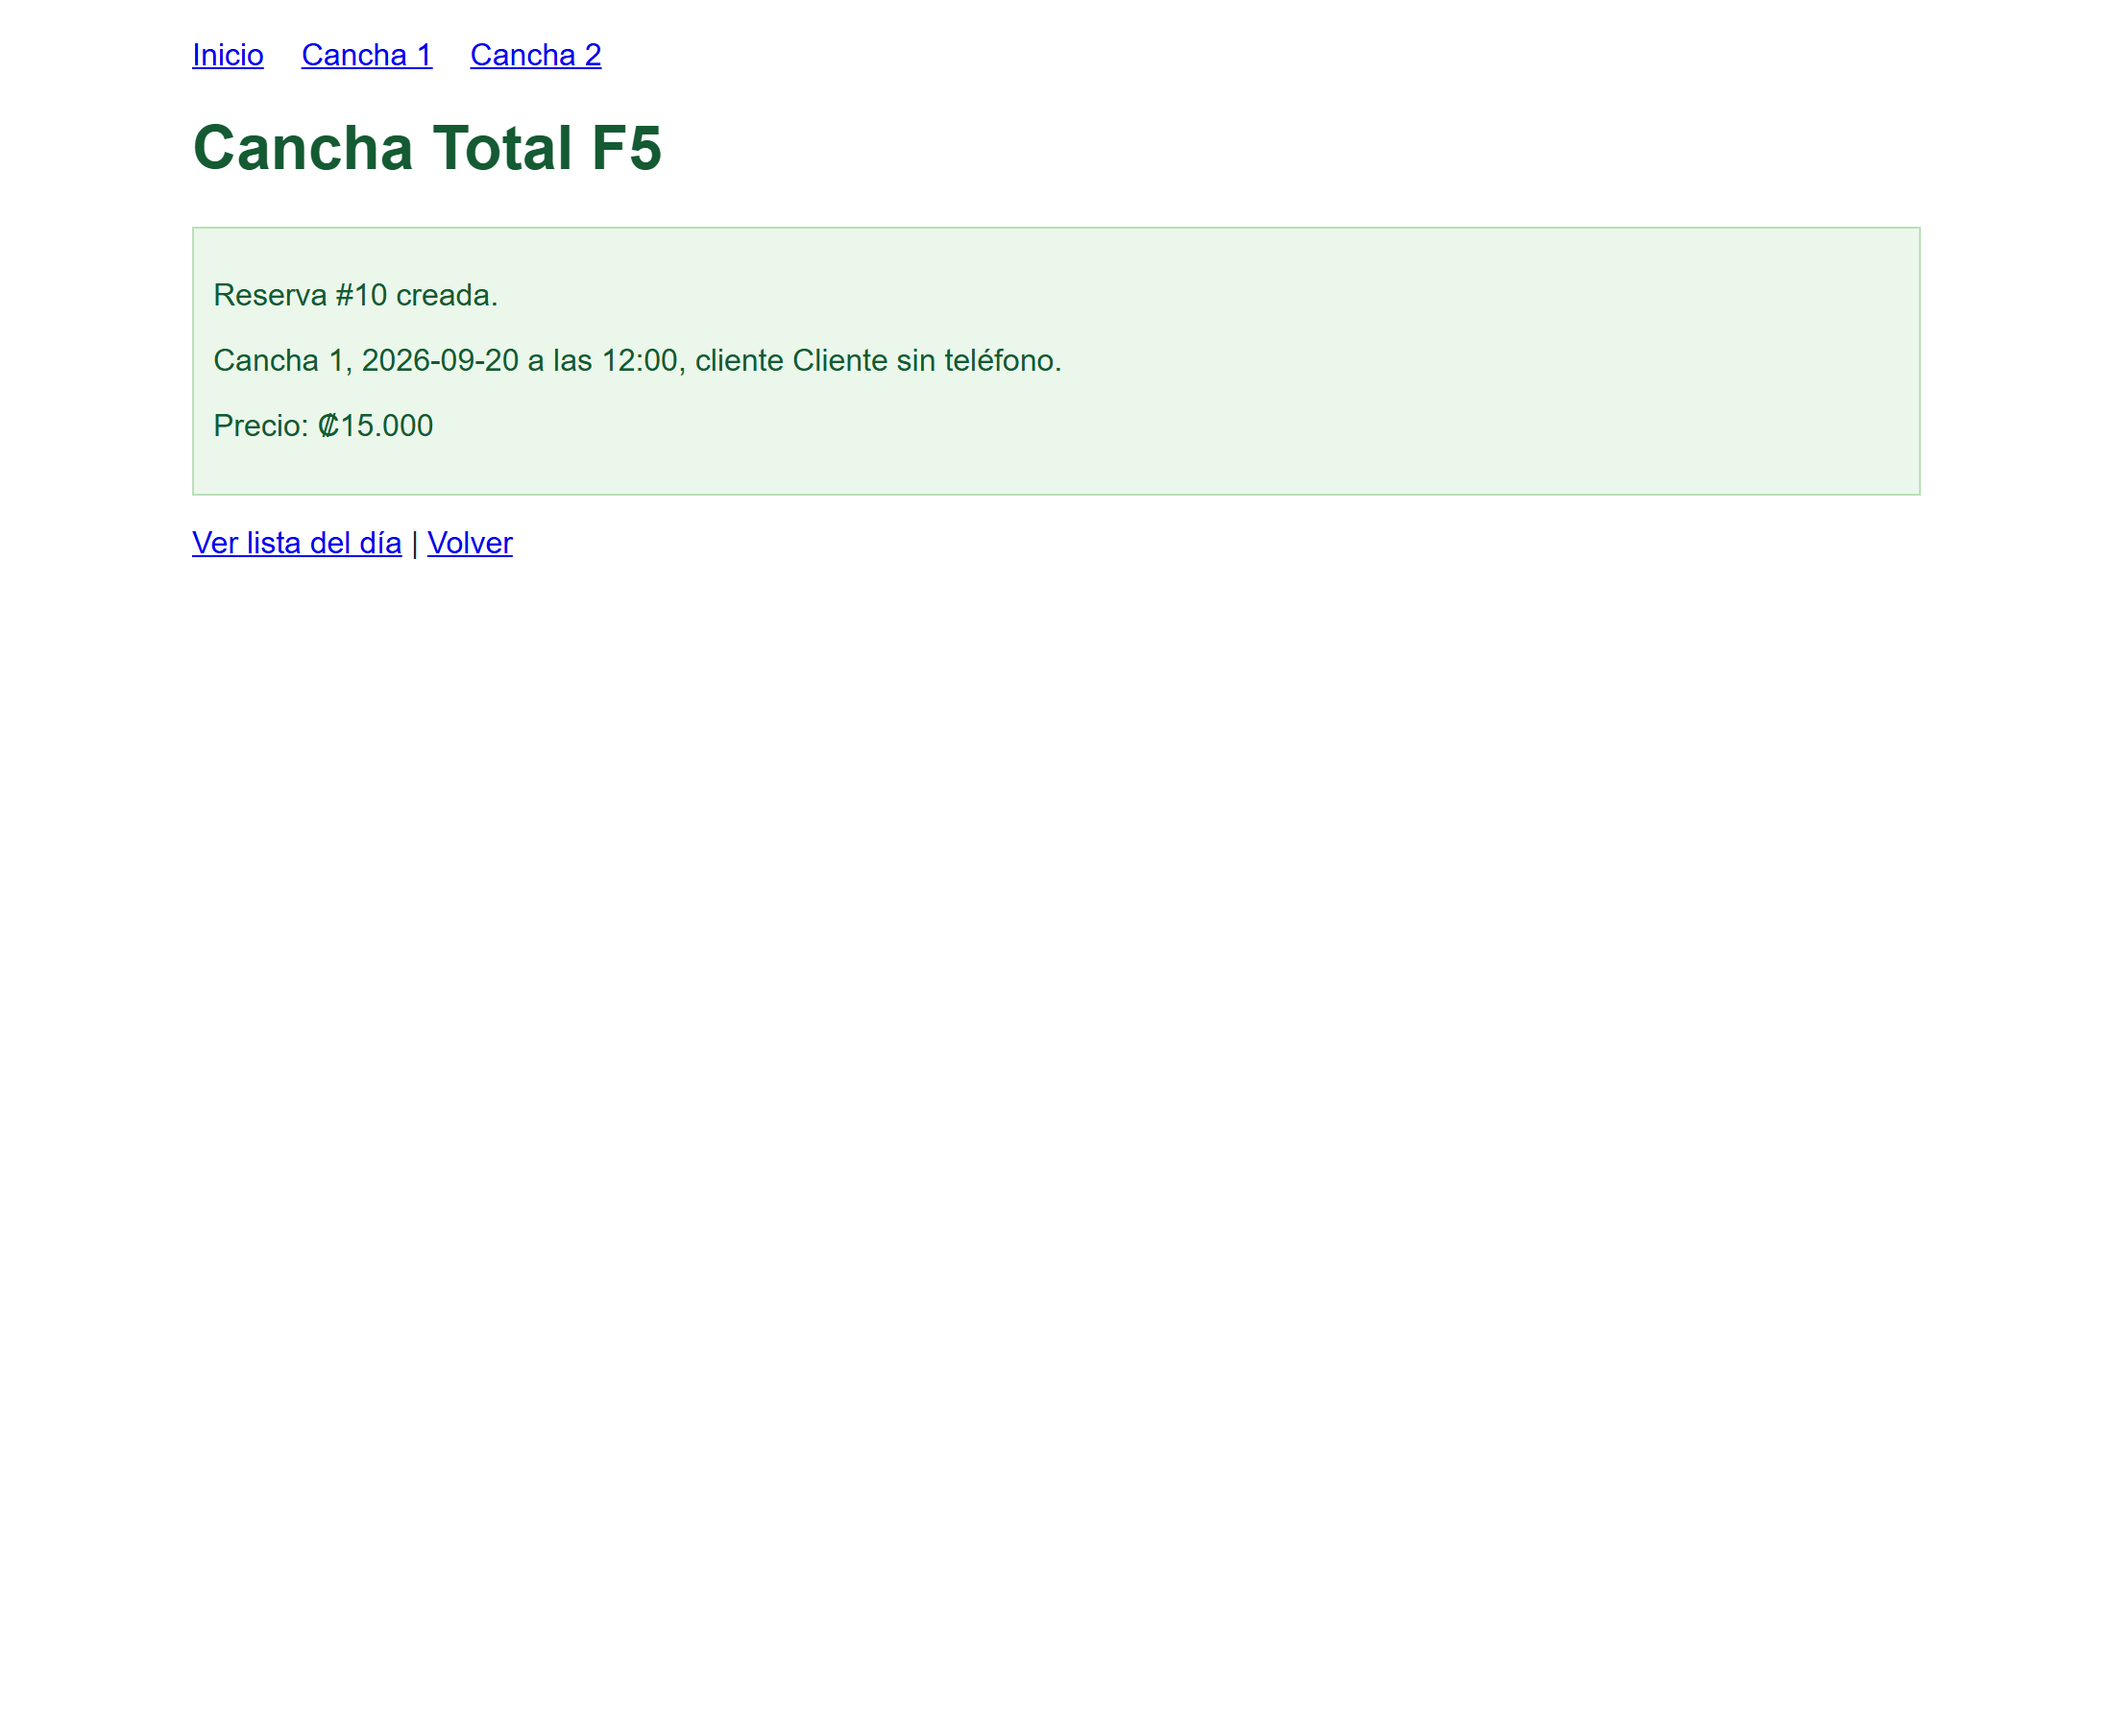
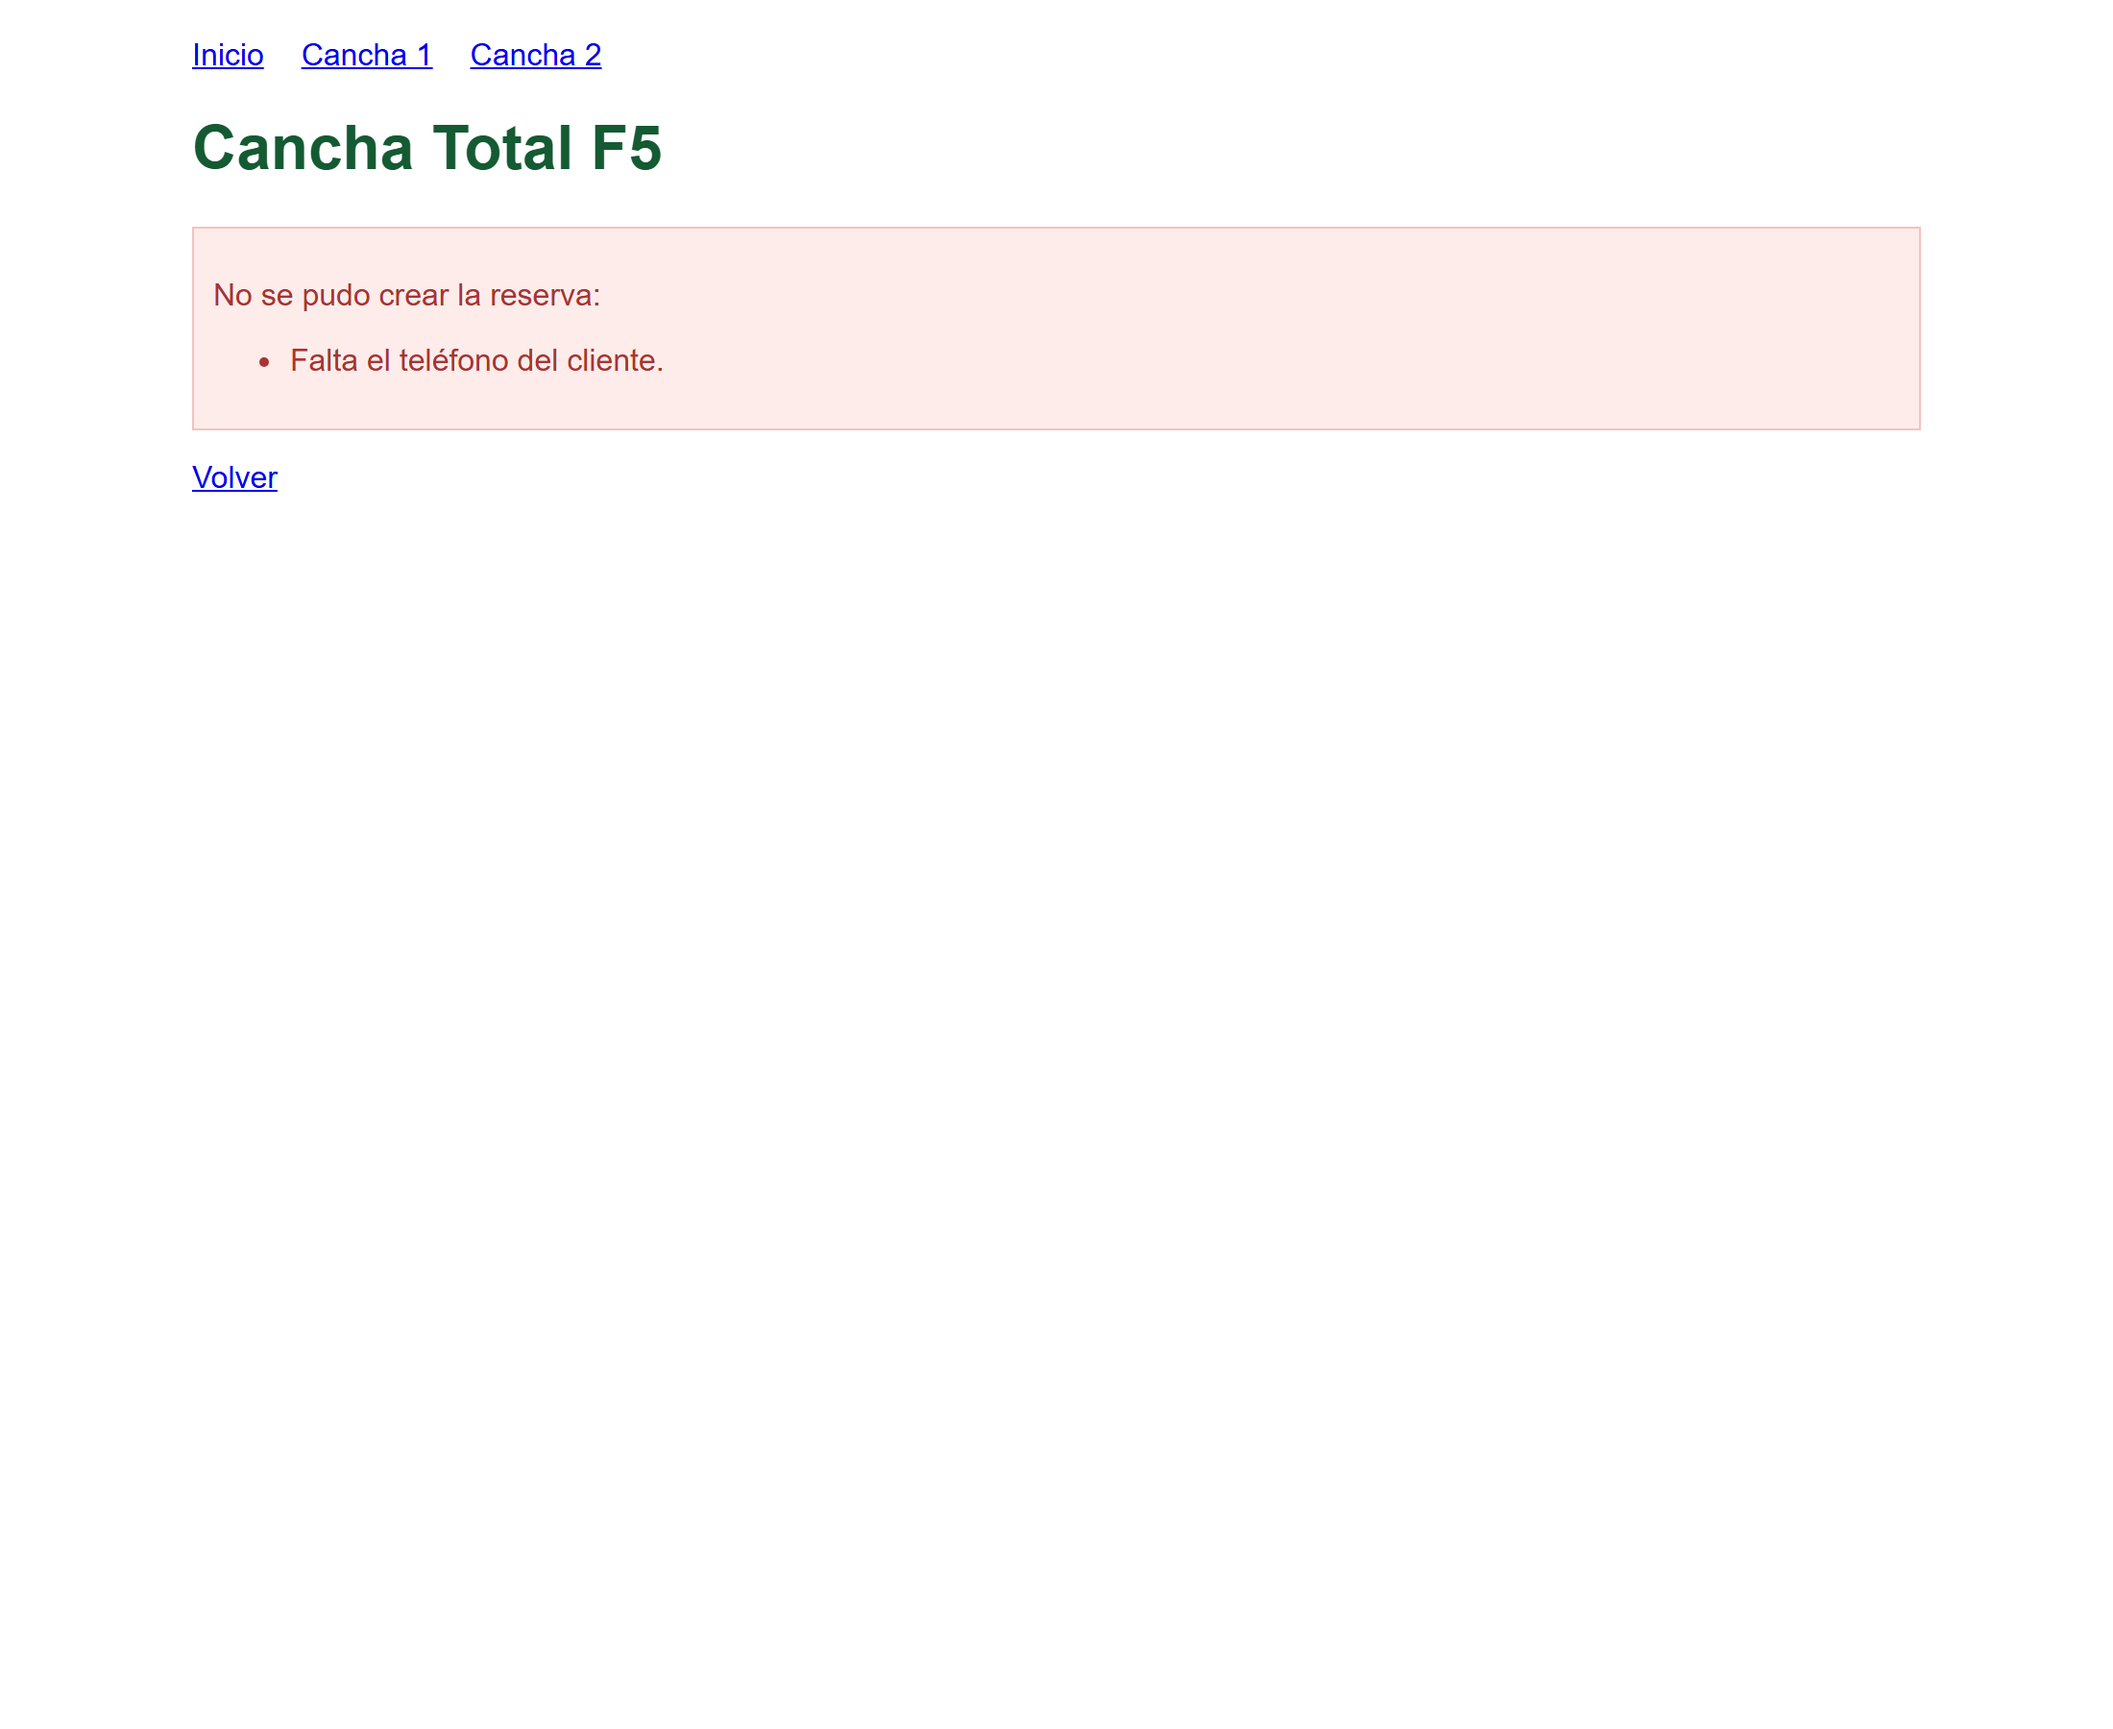
Week5: el caso queda terminado, con las capturas del sistema final
Se cerraron los seis hallazgos de comportamiento y se pagaron las diez deudas
de estructura: 87 pruebas en verde, ninguna marcada. El detalle vive en el
repositorio del sistema, github.com/jcyanez/cancha-total-f5.

Las capturas "despues" estaban viejas: reflejaban solo el primer arreglo. Se
regeneraron contra el sistema final. De las 13, cambiaron 5 --las del bloque
de las 17:00 y las dos del formulario, donde ahora se rechaza registrar sin
telefono-- y 8 quedaron identicas byte a byte, que es la prueba de que la
refactorizacion no rompio lo que ya funcionaba.

Changed region(s): [[0.0927, 0.1556, 0.4945, 0.3422]]

diff --git a/Week5/capturas/herramienta/capturar.js b/Week5/capturas/herramienta/capturar.js
@@ -124,7 +124,8 @@ async function main() {
     });
     console.log(`  ${String(numero).padStart(2, '0')}-error-bloque-ocupado.png`);
 
-    // --- Teléfono vacío: hoy pasa (hallazgo C-2) -------------------------
+    // --- Teléfono vacío --------------------------------------------------
+    // En el sistema recibido esto pasaba sin chistar: era el hallazgo C-2.
     await pagina.goto(`${sistema.direccion}/?fecha=2026-09-20`);
     await pagina.selectOption('select[name="hora"]', '12');
     await pagina.fill('input[name="cliente"]', 'Cliente sin teléfono');

diff --git a/Week5/README.md b/Week5/README.md
@@ -10,14 +10,18 @@ commits propios encima*, conservando el commit del proveedor (`65ce4b4`) — por
 se publica aparte y no se aplana dentro de este repositorio del curso.
 
 Ahí están la especificación reconstruida, la suite, los hallazgos, la puerta de calidad y la
-refactorización, en este orden:
+refactorización, en **21 commits** que se leen como el relato del trabajo:
 
-| Commit | Qué hace |
+| | |
 |---|---|
-| `65ce4b4` | El sistema tal como lo entregó el proveedor. No se toca. |
-| `c3c8b8e` | La red y la puerta: `ESPECIFICACION.md`, 71 pruebas, `HALLAZGOS.md`, `verificar.sh`, hook `Stop`. |
-| `7c54d15` | **Estructura**: la tarifa pasa de calcularse en tres lugares a una sola función. |
-| `efe8a03` | **Comportamiento**: la luz enciende a las 17:00, no a las 18:00 (hallazgo C-1). |
+| **Punto de partida** | `65ce4b4`, el sistema tal como lo entregó el proveedor. No se toca. |
+| **La red** | `ESPECIFICACION.md` con 61 condiciones y su fuente declarada, 71 pruebas, `HALLAZGOS.md`, `verificar.sh` y el hook `Stop`. Todo **antes** de tocar una línea del sistema. |
+| **La refactorización** | 8 commits de estructura y 6 de comportamiento, nunca mezclados. |
+| **Al terminar** | **87 pruebas en verde, ninguna marcada.** Los 6 hallazgos de comportamiento cerrados y las 10 deudas de estructura pagadas. |
+
+Ningún hallazgo se cerró tocando su prueba: en cada cierre, lo único que cambió en el archivo de
+pruebas fue quitarle la marca de fallo esperado. El detalle de cada uno, con la evidencia, está en
+el `HALLAZGOS.md` de ese repositorio.
 
 ## Qué hay en esta carpeta
 
@@ -37,6 +41,11 @@ El bloque de las 17:00 en la grilla de disponibilidad:
 
 Los bloques de las 16:00 y las 18:00 quedaron **idénticos byte a byte** entre las dos tandas de
 capturas: el arreglo movió el borde de la tarifa, y nada más.
+
+De las 13 capturas, **5 cambiaron y 8 quedaron idénticas byte a byte**. Las que cambiaron son las
+que muestran el bloque de las 17:00 y las dos del formulario: registrar sin teléfono ahora se
+rechaza, que es el hallazgo C-2. Las otras ocho no se movieron, y esa es justamente la prueba de
+que la refactorización no rompió lo que ya funcionaba.
 
 ## Regenerar las capturas
 
